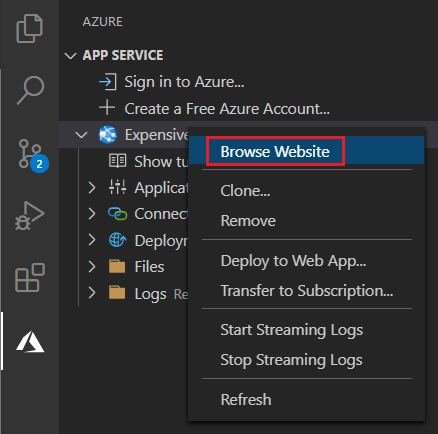
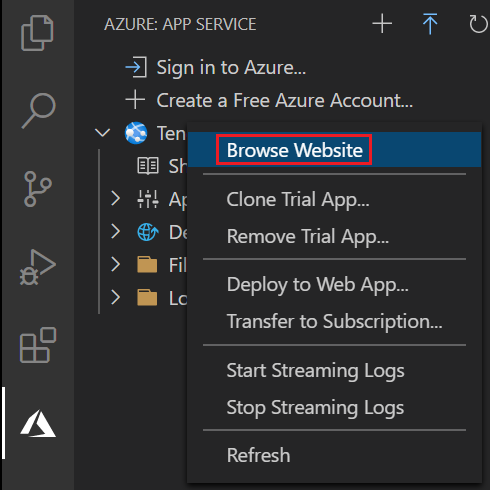
Tutorial tweaks

diff --git a/resources/TrialApp.didact.md b/resources/TrialApp.didact.md
@@ -1,4 +1,4 @@
-# Welcome to your Trial App Didact Tutorial
+# Welcome to your Trial App
 
 This tutorial will show you how to make and deploy changes to your Azure App Service trial app. Your trial will last 60 minutes. You can find more information about Azure App Service [here](https://docs.microsoft.com/en-us/azure/app-service/).
 
@@ -11,12 +11,14 @@ This tutorial will show you how to make and deploy changes to your Azure App Ser
 ![Trial app view](./trialAppTutorial/viewTrialAppScreenshot.png)
 
 2. Right-click on the trial app.
-3. Select `Clone`.
+3. Select `Clone Trial App...`.
 
 ![Right-click Clone](./trialAppTutorial/rightClickCloneScreenshot.png)
 
 4. Select the cloned repository's location.
 5. When the repository has finished cloning a notification like the one below will appear. Open the folder in VS Code or add it to the workspace.
+
+*Note: Selecting the `Open` option will reload VS Code*
 
 ![Clone finished notification](./trialAppTutorial/cloneNotificationScreenshot.png)
 
@@ -42,7 +44,7 @@ For example, change line 26 from: `<h1> Welcome to Azure! </h1>` to this: `<h1> 
 
 ![Deploy complete notification](./trialAppTutorial/deployCompleteScreenshot.png)
 
-You can also browse your website by right-clicking your trial app and selecting `Browse`.
+You can also browse your website by right-clicking your trial app and selecting `Browse website`.
 
 ![Right-click browse website](./trialAppTutorial/browseWebsiteRedScreenshot.png)
 
